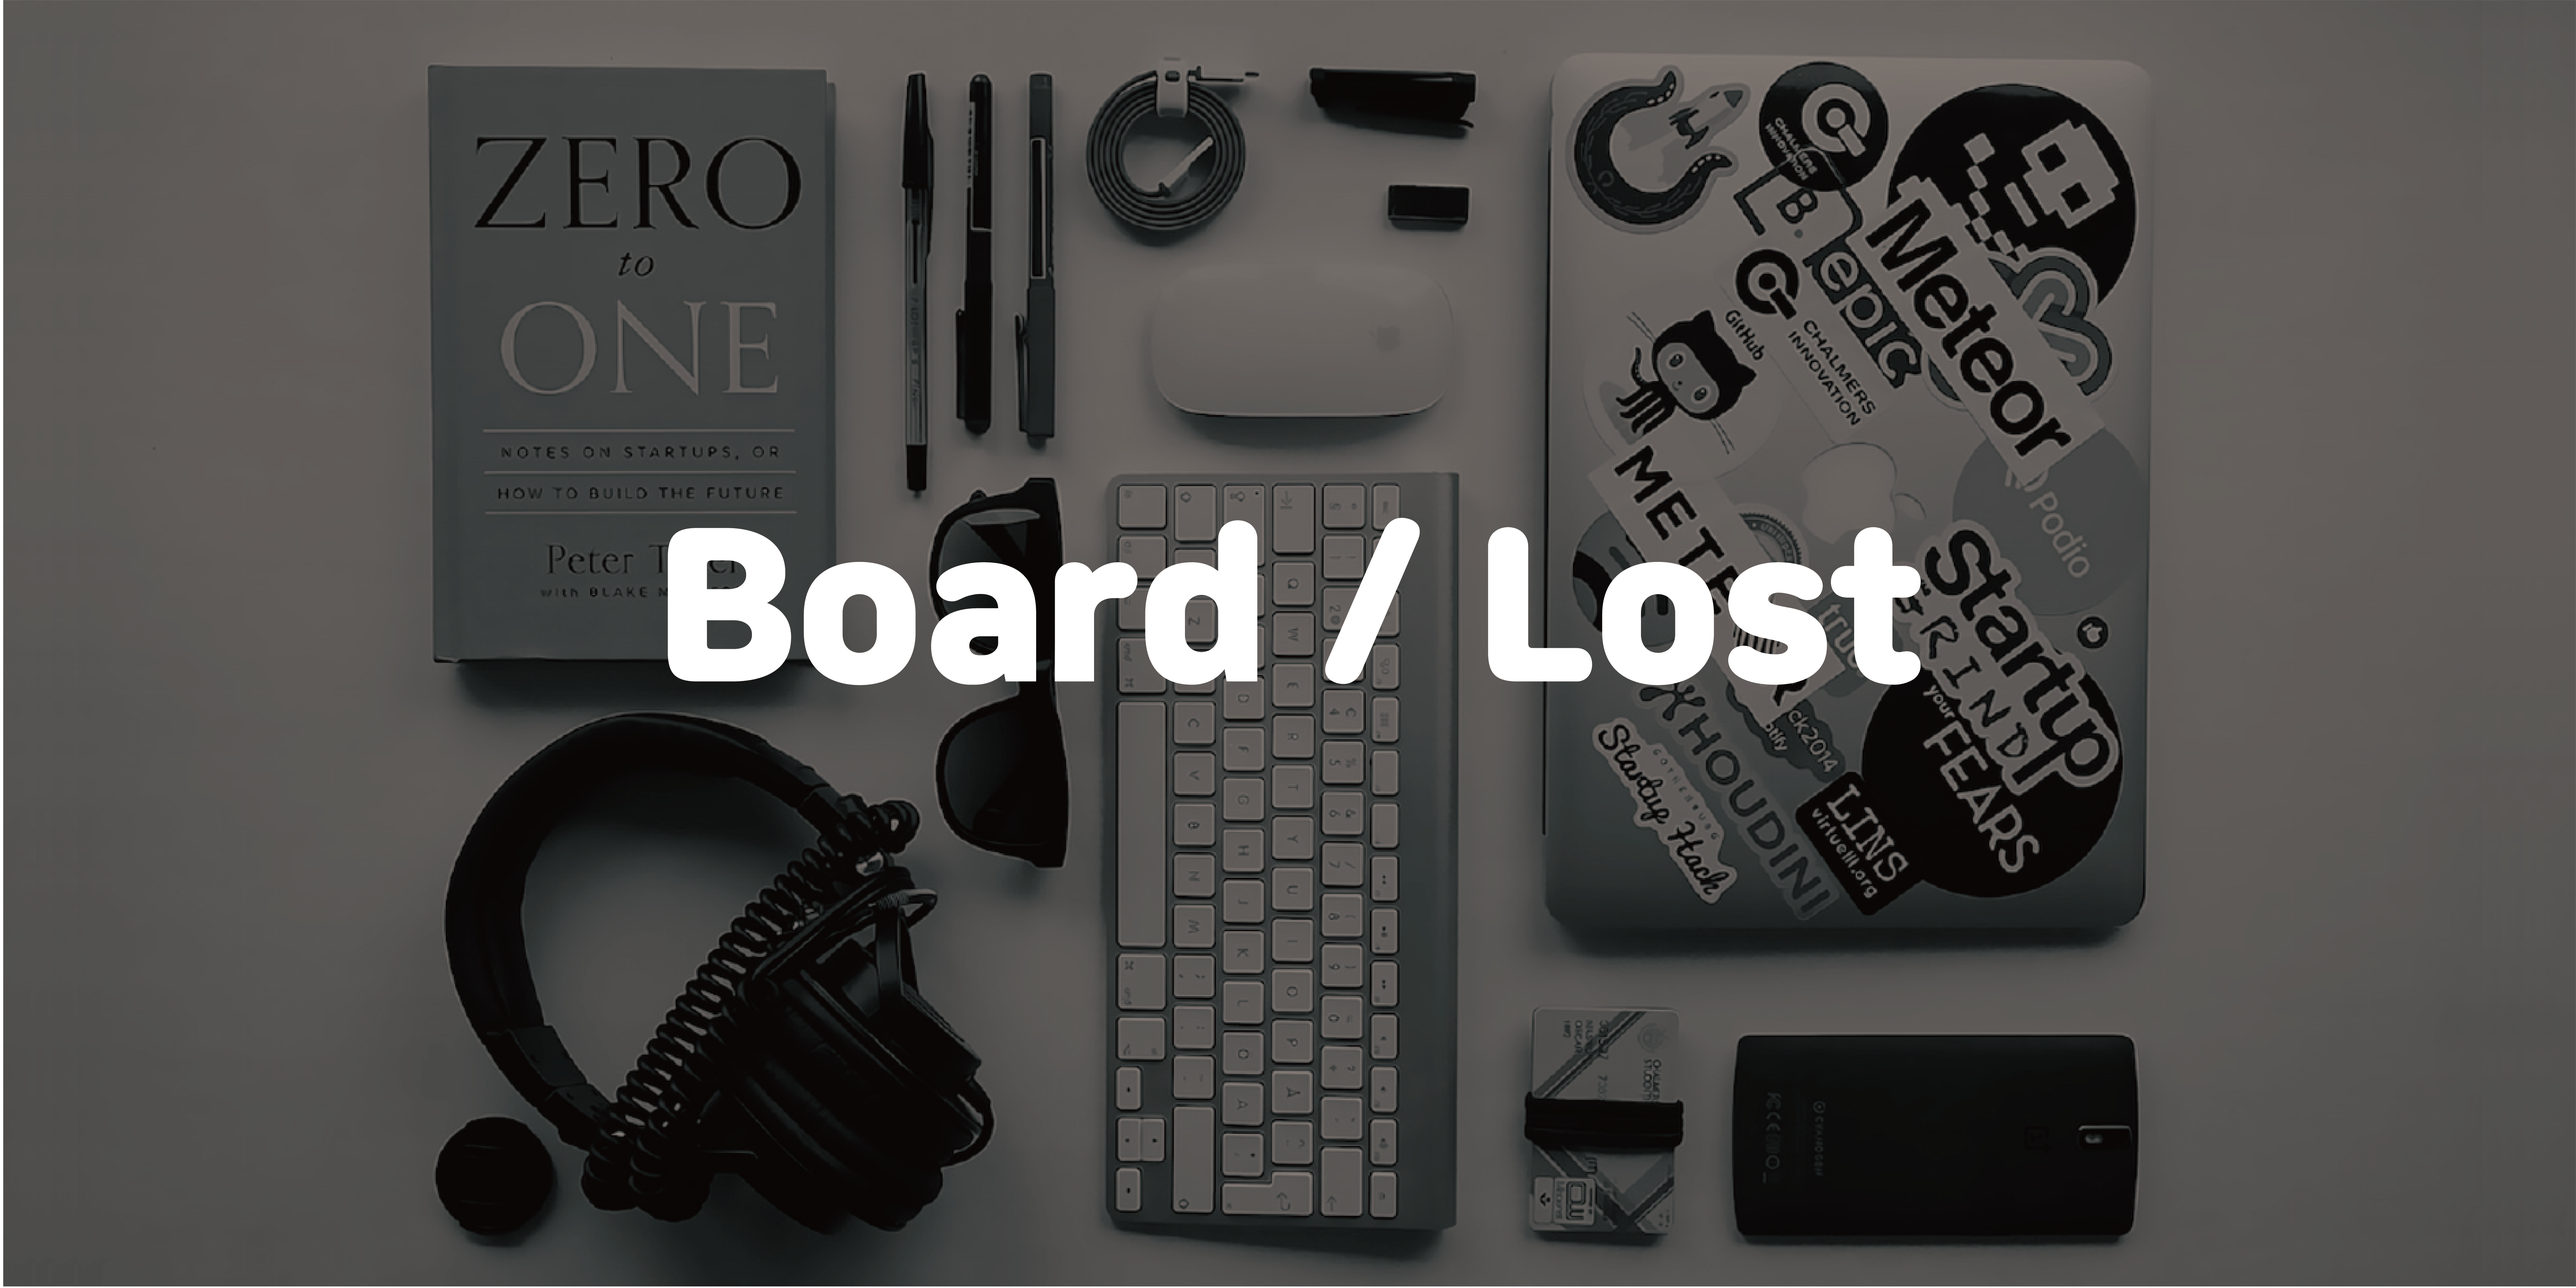
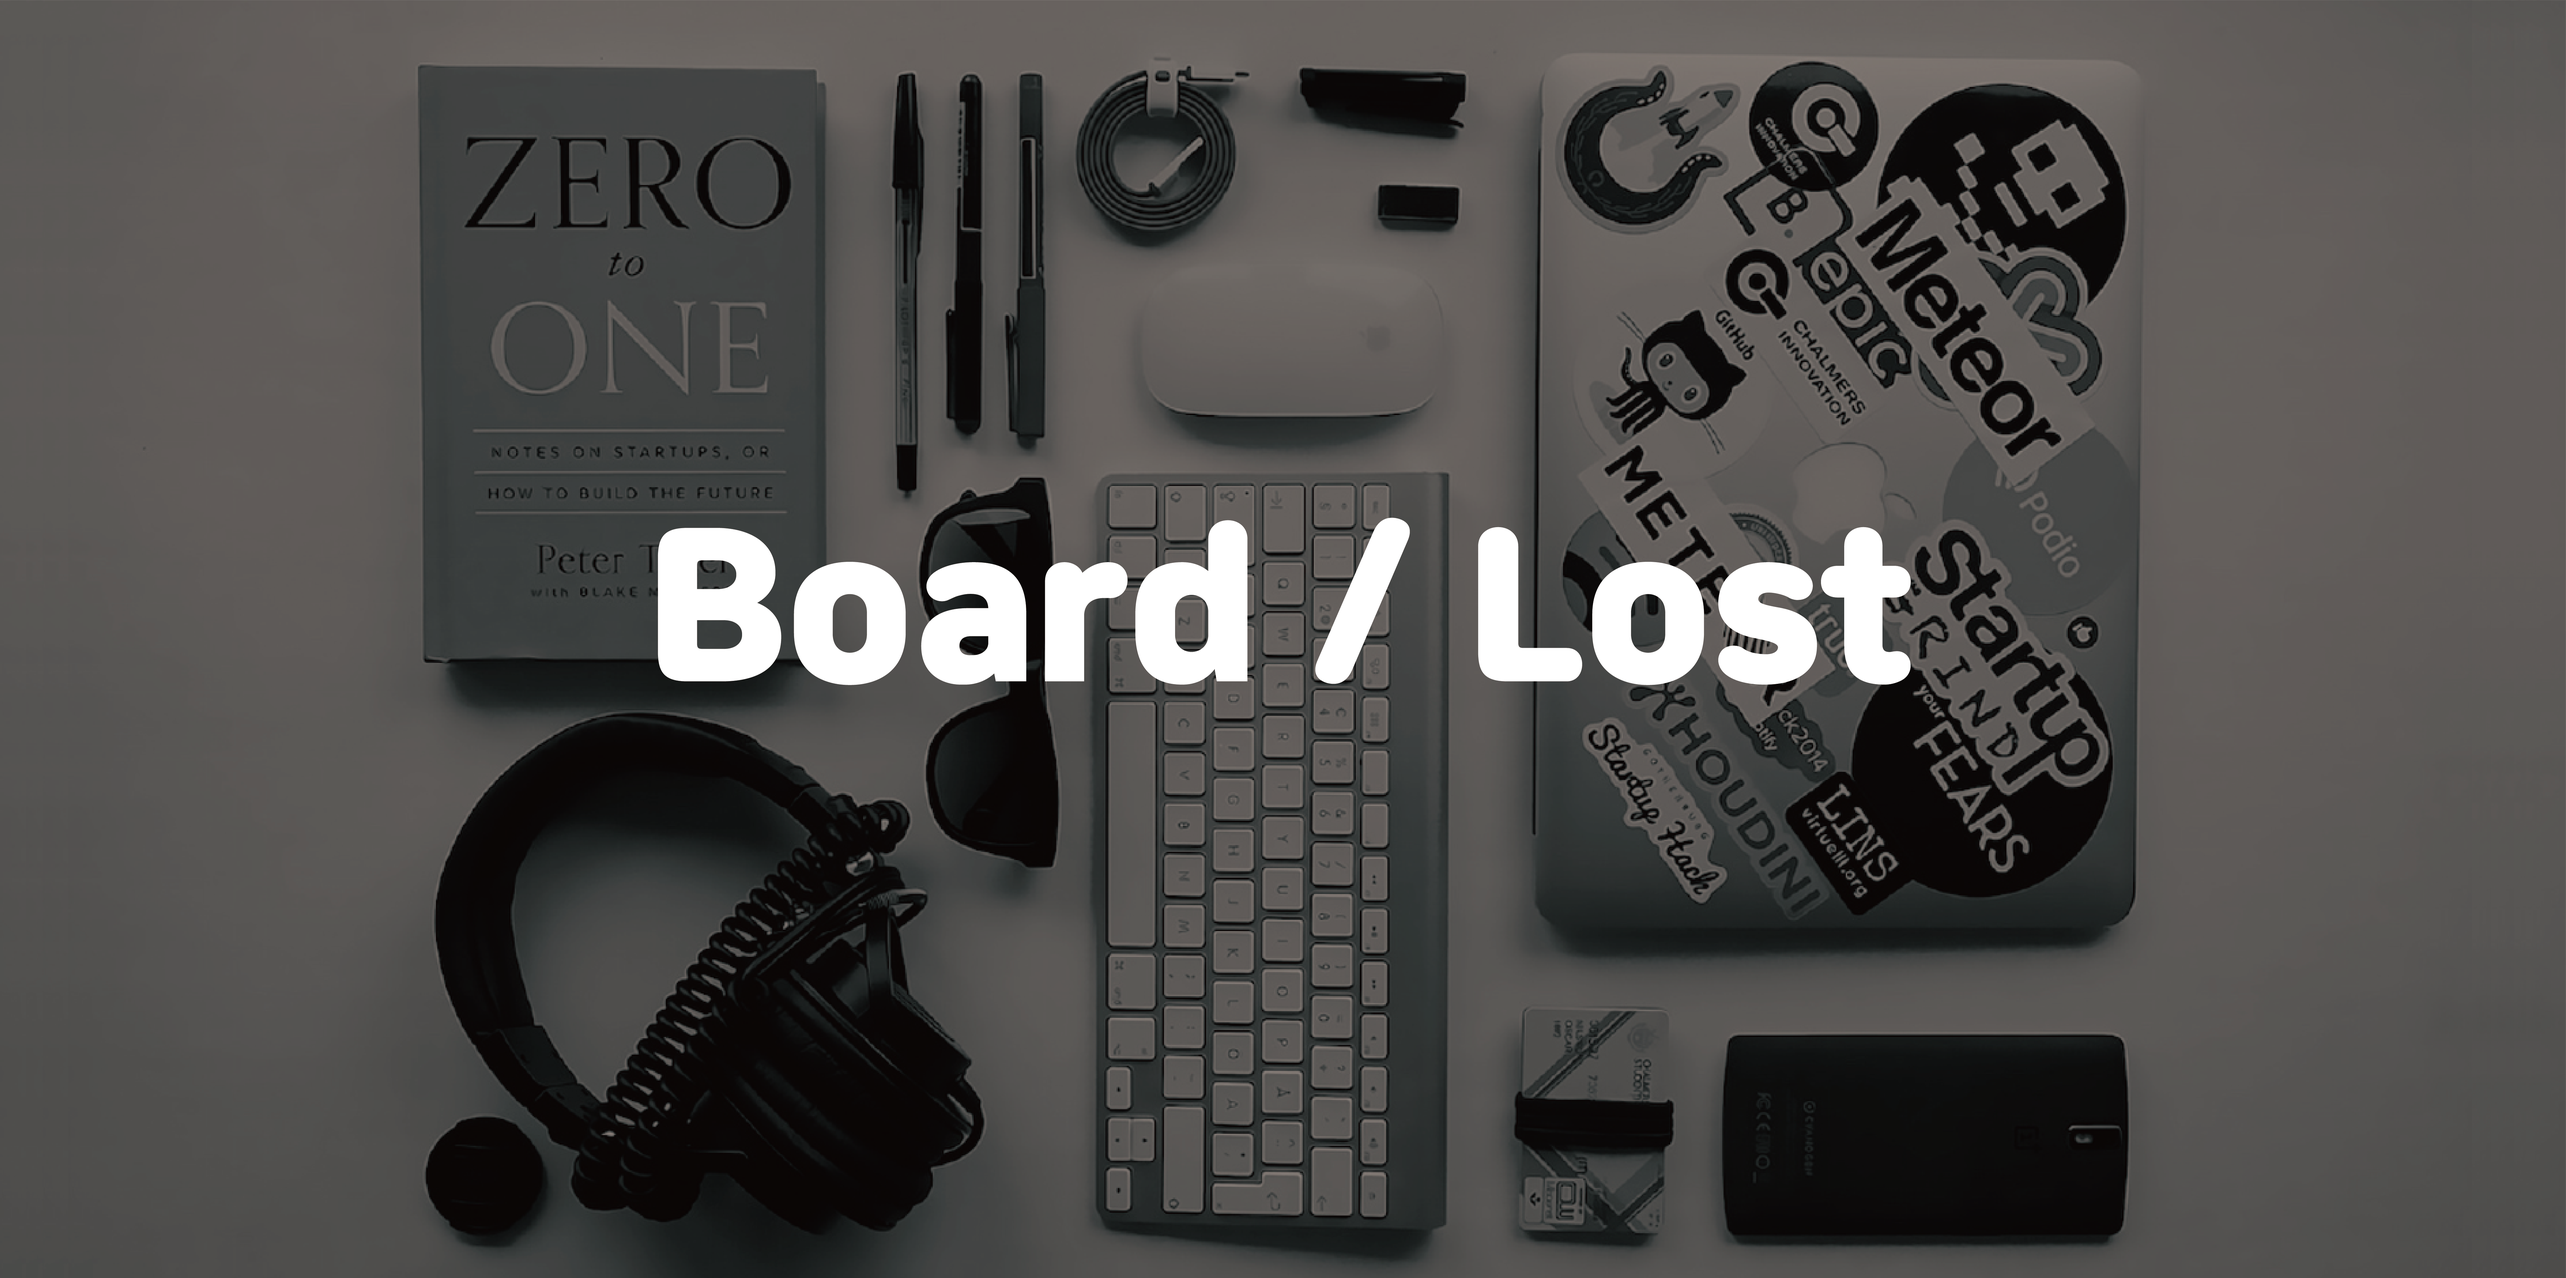
시루 디테일화면 수정 , 메인화면 링크 및 이미지 수정 , 모바일 PC 화면배치 수정

diff --git a/info/templates/home.html b/info/templates/home.html
@@ -85,13 +85,13 @@ jQuery (necessary for Bootstrap's JavaScript plugins)
             </div>
       </div>
       <div class="section" id="section1">
-          <img src="{% static 'img/main_2.png' %}" class="d-block w-100" alt="...">
+        <a href="{% url 'introduce' %}"><img src="/static/img/main_pub.png" style=""  class="d-block w-100 picture_size" alt="..."></a>
       </div>
       <div class="section" id="section1">
-          <img src="{% static 'img/main_5.png' %}" class="d-block w-100" alt="...">
+        <a href="{% url 'missing' %}"><img style="" src="{% static 'img/BoardLost.png' %}" class="d-block w-100" alt="..."></a>
       </div>
       <div class="section" id="section3">
-          <a href="{% url 'missing' %}"><img style="" src="{% static 'img/BoardLost.png' %}" class="d-block w-100" alt="..."></a>
+        <a href="{% url 'siru' %}"><img src="/static/img/main_siru.png" style=""  class="d-block w-100 picture_size" alt="..."></a>
       </div>
       <div class="section" id="section2">
           <div id="carouselExampleIndicators2" class="carousel slide carousel-fade" data-ride="carousel" data-interval="5000">
@@ -125,7 +125,7 @@ jQuery (necessary for Bootstrap's JavaScript plugins)
 <!-- 모바일부분에 표시되는  -->
 <div class="" id="section_mobile">
   <div id="mobi_container">
-    <div id="jb-content" class="line-up">
+    <div id="jb-content" class="main_info">
         <div id="carouselExampleIndicators3" class="carousel slide carousel-fade" data-ride="carousel" data-interval="5000">
 
             <div class="carousel-inner">
@@ -160,15 +160,15 @@ jQuery (necessary for Bootstrap's JavaScript plugins)
     </div>
   </div>
     <div id="jb-content" class="main_info">
-    주점소개사진
+      <a href="{% url 'introduce' %}"><img src="/static/img/main_pub.png" style=""  class="d-block w-100 picture_size" alt="..."></a>
     </div>
     <div id="jb-content" class="main_info">
-    시흥화폐 시루사진
+      <a href="{% url 'missing' %}"><img style="height:200px;" src="{% static 'img/BoardLost.png' %}" class="d-block w-100" alt="..."></a>
     </div>
-    <div id="jb-content" class="line-up">
-        <a href="{% url 'missing' %}"><img style="height:200px;" src="{% static 'img/BoardLost.png' %}" class="d-block w-100" alt="..."></a>
+    <div id="jb-content" class="main_info">
+      <a href="{% url 'siru' %}"><img src="/static/img/main_siru.png" style=""  class="d-block w-100 picture_size" alt="..."></a>
     </div>
-    <div id="jb-content" class="line-up">
+    <div id="jb-content" class="main_info">
         <div id="carouselExampleIndicators4" class="carousel slide carousel-fade" data-ride="carousel" data-interval="5000">
             <ol class="carousel-indicators">
               <li data-target="#carouselExampleIndicators" data-slide-to="0" class="active"></li>

diff --git a/info/templates/siru.html b/info/templates/siru.html
@@ -35,6 +35,10 @@
             </aside>
             <br>
             <div class="siru_imageset">
+                <img class="siru_image" src="{%static 'img/siruXkpu.png'%}" alt="앱 스토어에서 무료 다운로드" style="border: 1px solid;" >
+            </div>
+            <br><br><br>
+            <div class="siru_imageset">
                 <img class="siru_image" title="53e73502dfdc2b6d50b8b223fb16e5d6_1550627792_8286.jpg" src="https://www.si-ru.kr/data/editor/1902/53e73502dfdc2b6d50b8b223fb16e5d6_1550627792_8286.jpg" alt="53e73502dfdc2b6d50b8b223fb16e5d6_1550627792_8286.jpg" style="" width="795">
                 <img class="siru_image" title="53e73502dfdc2b6d50b8b223fb16e5d6_1550627796_2778.jpg" src="https://www.si-ru.kr/data/editor/1902/53e73502dfdc2b6d50b8b223fb16e5d6_1550627796_2778.jpg" alt="53e73502dfdc2b6d50b8b223fb16e5d6_1550627796_2778.jpg" style="" width="795">
             </div>

diff --git a/kpufestival/static/css/styles.css b/kpufestival/static/css/styles.css
@@ -30,7 +30,7 @@ body{
 /* home */
 .section{
     background: #dbdbdb;
-    margin: 20px;
+    margin: 45px;
 }
 #jb-container {
     width: 1025px;
@@ -69,6 +69,7 @@ body{
         height: 20%;
     }
     #jb-content {
+      border: 0;
       float: none;
       width: auto;
     }

diff --git a/kpufestival/static/css/home.css b/kpufestival/static/css/home.css
@@ -54,8 +54,7 @@
     }
     .main_info
     {
-        background-image: url( '/static/img/main_info.png' );
-        background-size: 100% 200px;
+        border: 1px gray;
     }
     .line-up3
     {
